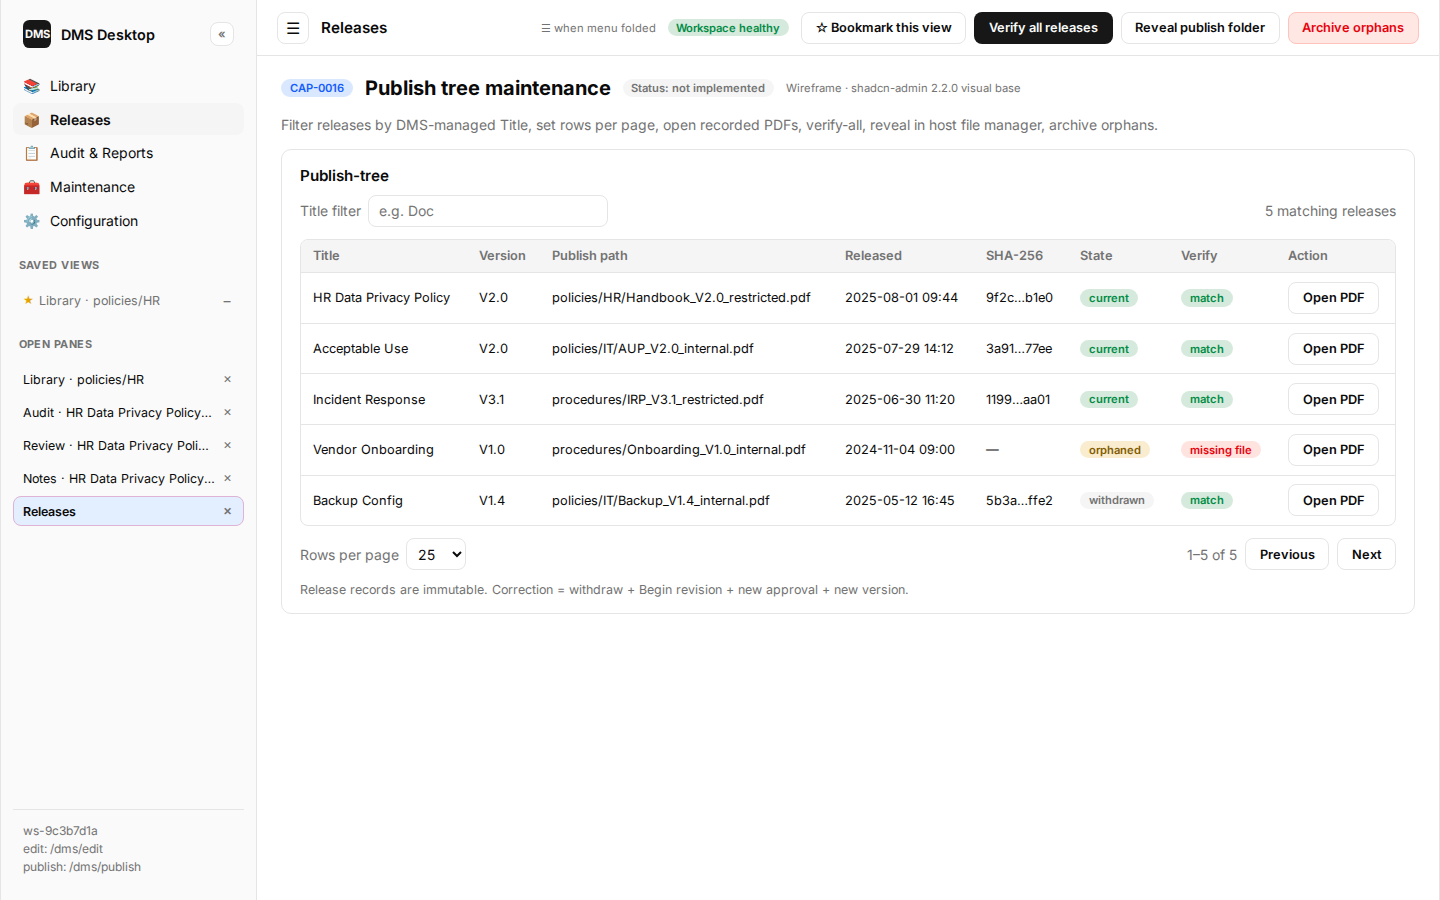
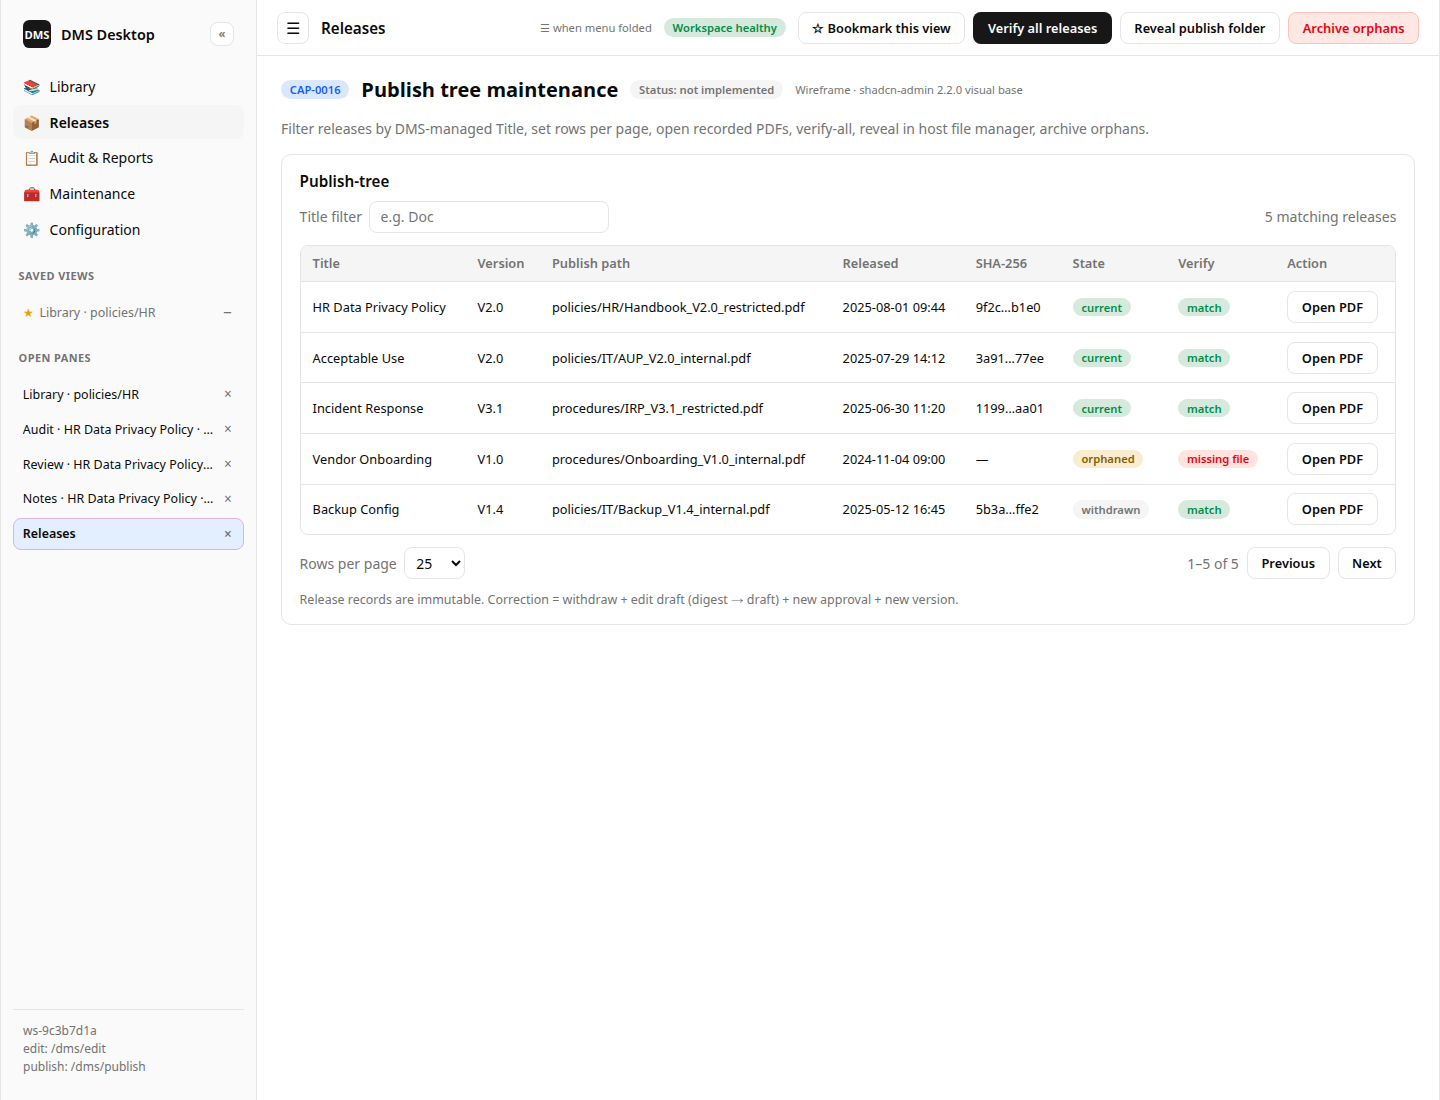
docs(wireframes): drop Begin revision screens
Refresh CAP-0002/0015/0016 so Revision cycle and maintenance
copy match digest-driven draft without Begin revision.

diff --git a/docs/product/wireframes/html/CAP-0015-document-control-data.html b/docs/product/wireframes/html/CAP-0015-document-control-data.html
@@ -374,14 +374,13 @@ tr:last-child td { border-bottom: 0; }
     <details class="selection-section" open>
       <summary><span class="selection-section-title">Revision cycle</span></summary>
       <div class="selection-section-body stack">
-        <p class="muted" style="font-size:0.85rem;margin:0">Create a release candidate here in the workspace (not an external upload). The current released PDF remains available while a newer draft is in progress. After release, <strong>Begin revision</strong> returns the document to <code>draft</code>; PDFs and history remain preserved.</p>
+        <p class="muted" style="font-size:0.85rem;margin:0">Create a release candidate here in the workspace (not an external upload). Lifecycle is <code>released</code> while the draft matches the current release digest, and becomes <code>draft</code> when the draft changes or was never released. PDFs and history remain preserved.</p>
         <strong>Create release candidate</strong>
         <label class="label">Effective date * <input type="date" value="2025-08-15" required></label>
         <label class="label">Target * <select><option value="next_minor" selected>Next minor · V1.4</option><option value="next_major">Next major · V2.0 (approval required)</option><option value="manual">Manual target</option></select></label>
         <p class="hint">Effective target: V1.4 · stays in draft for direct PDF export. Manual major/minor stay disabled until Manual target is selected.</p>
         <label class="label">Requesting editor * <select><option value="8a1f">Lukas Roth · lukas@vc.de</option></select></label>
         <button class="btn">Create release candidate</button>
-        <button class="btn outline">Begin revision</button>
         <button class="btn outline">Cancel review</button>
         <button class="btn danger">Mark obsolete</button>
         <details open>

diff --git a/docs/product/wireframes/html/CAP-0016-publish-tree-maintenance.html b/docs/product/wireframes/html/CAP-0016-publish-tree-maintenance.html
@@ -266,7 +266,7 @@ tr:last-child td { border-bottom: 0; }
     <label class="muted" style="display:flex;align-items:center;gap:0.45rem">Rows per page <select aria-label="Release rows per page" style="height:2rem;border:1px solid var(--input);border-radius:calc(var(--radius) - 2px);padding:0 0.45rem;font:inherit;color:var(--foreground);background:var(--background)"><option>10</option><option selected>25</option><option>50</option><option>100</option></select></label>
     <div class="row gap-2"><span class="muted">1–5 of 5</span><button class="btn outline" disabled>Previous</button><button class="btn outline" disabled>Next</button></div>
   </div>
-        <p class="hint">Release records are immutable. Correction = withdraw + Begin revision + new approval + new version.</p>
+        <p class="hint">Release records are immutable. Correction = withdraw + edit draft (digest → draft) + new approval + new version.</p>
       </section>
     </main>
   </div>

diff --git a/docs/product/wireframes/html/CAP-0002-document-lifecycle.html b/docs/product/wireframes/html/CAP-0002-document-lifecycle.html
@@ -243,7 +243,7 @@ tr:last-child td { border-bottom: 0; }
       <div class="grow"></div>
       <span class="ham-note">☰ when menu folded</span>
       <span class="badge ok">Workspace healthy</span>
-      <div class="header-actions"><button class="btn outline bookmark-btn" title="Bookmark this view" aria-pressed="false">☆ Bookmark this view</button><button class="btn">Begin revision</button><button class="btn outline">Release V1.4 minor version</button><button class="btn outline">Preview V2.0 review request</button></div>
+      <div class="header-actions"><button class="btn outline bookmark-btn" title="Bookmark this view" aria-pressed="false">☆ Bookmark this view</button><button class="btn">Create release candidate</button><button class="btn outline">Release V1.4 minor version</button><button class="btn outline">Preview V2.0 review request</button></div>
     </header>
     <main class="content">
       <div class="cap-head">
